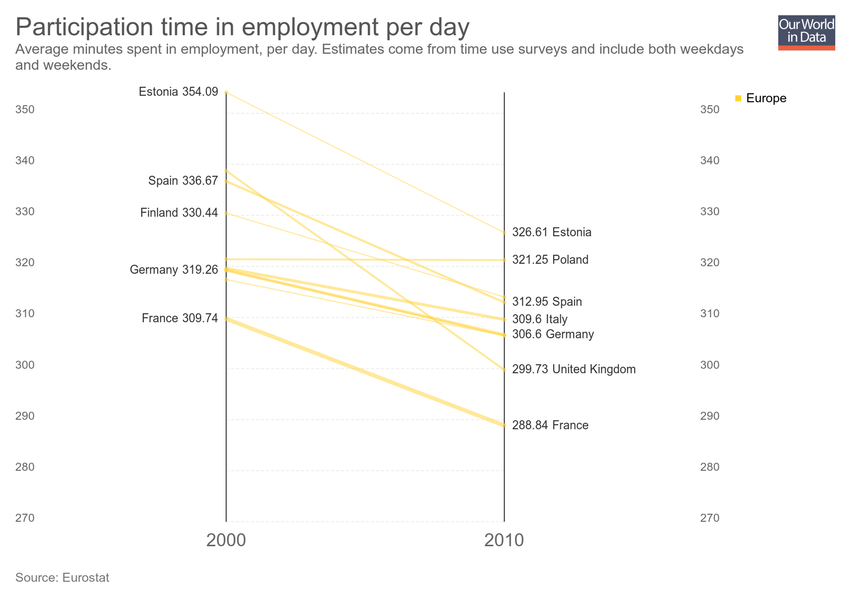
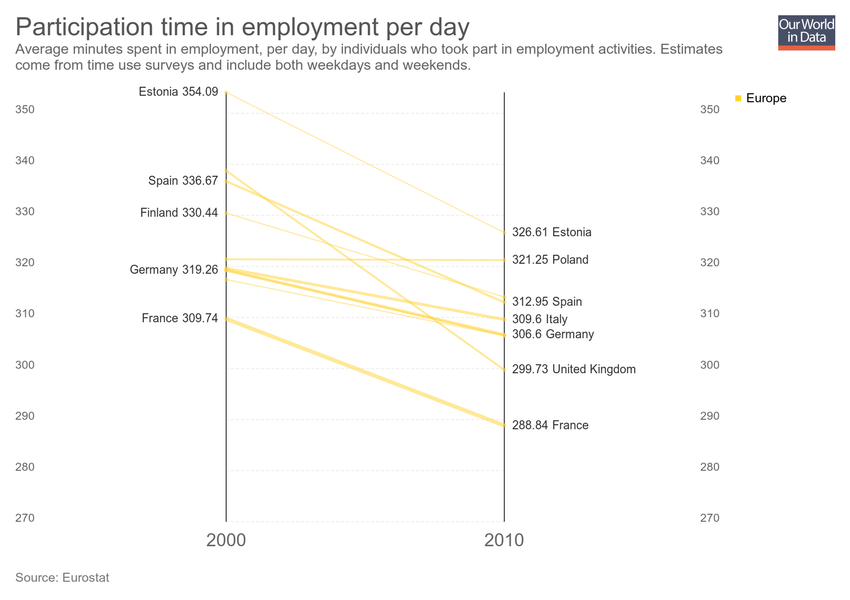
Updating chart participation-time-in-employment-per-day

Changed region(s): [[0.0, 0.06, 0.8871, 0.12]]

diff --git a/grapher/participation-time-in-employment-per-day.html b/grapher/participation-time-in-employment-per-day.html
@@ -1,4 +1,4 @@
-<!doctype html><html><head><meta name="viewport" content="width=device-width, initial-scale=1" /><title>Participation time in employment per day - Our World in Data</title><meta name="description" content="Average minutes spent in employment, per day. Estimates come from time use surveys and include both weekdays and weekends. " /><link rel="canonical" href="https://ourworldindata.org/grapher/participation-time-in-employment-per-day" /><meta property="fb:app_id" content="1149943818390250" /><meta property="og:url" content="https://ourworldindata.org/grapher/participation-time-in-employment-per-day" /><meta property="og:title" content="Participation time in employment per day" /><meta property="og:description" content="Average minutes spent in employment, per day. Estimates come from time use surveys and include both weekdays and weekends. " /><meta property="og:image" content="https://ourworldindata.org/grapher/exports/participation-time-in-employment-per-day.png?v=2" /><meta property="og:image:width" content="850" /><meta property="og:image:height" content="600" /><meta property="og:site_name" content="Our World in Data" /><meta name="twitter:card" content="summary_large_image" /><meta name="twitter:site" content="@OurWorldInData" /><meta name="twitter:creator" content="@OurWorldInData" /><meta name="twitter:title" content="Participation time in employment per day" /><meta name="twitter:description" content="Average minutes spent in employment, per day. Estimates come from time use surveys and include both weekdays and weekends. " /><meta name="twitter:image" content="https://ourworldindata.org/grapher/exports/participation-time-in-employment-per-day.png?v=2" /><style>
+<!doctype html><html><head><meta name="viewport" content="width=device-width, initial-scale=1" /><title>Participation time in employment per day - Our World in Data</title><meta name="description" content="Average minutes spent in employment, per day, by individuals who took part in employment activities. Estimates come from time use surveys and include both weekdays and weekends. " /><link rel="canonical" href="https://ourworldindata.org/grapher/participation-time-in-employment-per-day" /><meta property="fb:app_id" content="1149943818390250" /><meta property="og:url" content="https://ourworldindata.org/grapher/participation-time-in-employment-per-day" /><meta property="og:title" content="Participation time in employment per day" /><meta property="og:description" content="Average minutes spent in employment, per day, by individuals who took part in employment activities. Estimates come from time use surveys and include both weekdays and weekends. " /><meta property="og:image" content="https://ourworldindata.org/grapher/exports/participation-time-in-employment-per-day.png?v=3" /><meta property="og:image:width" content="850" /><meta property="og:image:height" content="600" /><meta property="og:site_name" content="Our World in Data" /><meta name="twitter:card" content="summary_large_image" /><meta name="twitter:site" content="@OurWorldInData" /><meta name="twitter:creator" content="@OurWorldInData" /><meta name="twitter:title" content="Participation time in employment per day" /><meta name="twitter:description" content="Average minutes spent in employment, per day, by individuals who took part in employment activities. Estimates come from time use surveys and include both weekdays and weekends. " /><meta name="twitter:image" content="https://ourworldindata.org/grapher/exports/participation-time-in-employment-per-day.png?v=3" /><style>
         html, body {
             height: 100%;
             margin: 0;
@@ -20,8 +20,8 @@
         }
     </style><noscript><style>
                     figure { display: none !important; }
-                </style></noscript><link rel="stylesheet" href="https://ourworldindata.org/grapher/assets/commons.bundle.b9f051796dbbbb7e5139.css" /><link rel="preload" href="/grapher/data/variables/97631+123+72.json?v=2" as="fetch" crossorigin /></head><body class="singleChart"><figure data-grapher-src="/grapher/participation-time-in-employment-per-day"></figure><noscript id="fallback"><img src="/grapher/exports/participation-time-in-employment-per-day.svg" /><p>Interactive visualization requires JavaScript</p></noscript><script src="https://cdn.polyfill.io/v2/polyfill.min.js?features=es6,fetch"></script><script src="https://ourworldindata.org/grapher/assets/commons.bundle.b9f051796dbbbb7e5139.js"></script><script src="https://ourworldindata.org/grapher/assets/charts.bundle.b9f051796dbbbb7e5139.js"></script><script>
-        var jsonConfig = {"id":2975,"map":{"projection":"World","colorSchemeLabels":[],"colorSchemeValues":[],"customNumericColors":[],"customCategoryColors":{},"customCategoryLabels":{},"customHiddenCategories":{}},"tab":"chart","slug":"participation-time-in-employment-per-day","type":"SlopeChart","title":"Participation time in employment per day","xAxis":{"scaleType":"linear"},"yAxis":{"min":270,"scaleType":"linear"},"version":2,"subtitle":"Average minutes spent in employment, per day. Estimates come from time use surveys and include both weekdays and weekends. ","hasMapTab":false,"stackMode":"absolute","dimensions":[{"display":{},"property":"y","variableId":97631},{"display":{},"property":"color","variableId":123},{"display":{},"property":"size","variableId":72}],"hasChartTab":true,"isPublished":true,"selectedData":[],"addCountryMode":"add-country"};
+                </style></noscript><link rel="stylesheet" href="https://ourworldindata.org/grapher/assets/commons.bundle.b9f051796dbbbb7e5139.css" /><link rel="preload" href="/grapher/data/variables/97631+123+72.json?v=3" as="fetch" crossorigin /></head><body class="singleChart"><figure data-grapher-src="/grapher/participation-time-in-employment-per-day"></figure><noscript id="fallback"><img src="/grapher/exports/participation-time-in-employment-per-day.svg" /><p>Interactive visualization requires JavaScript</p></noscript><script src="https://cdn.polyfill.io/v2/polyfill.min.js?features=es6,fetch"></script><script src="https://ourworldindata.org/grapher/assets/commons.bundle.b9f051796dbbbb7e5139.js"></script><script src="https://ourworldindata.org/grapher/assets/charts.bundle.b9f051796dbbbb7e5139.js"></script><script>
+        var jsonConfig = {"id":2975,"map":{"projection":"World","colorSchemeLabels":[],"colorSchemeValues":[],"customNumericColors":[],"customCategoryColors":{},"customCategoryLabels":{},"customHiddenCategories":{}},"tab":"chart","slug":"participation-time-in-employment-per-day","type":"SlopeChart","title":"Participation time in employment per day","xAxis":{"scaleType":"linear"},"yAxis":{"min":270,"scaleType":"linear"},"version":3,"subtitle":"Average minutes spent in employment, per day, by individuals who took part in employment activities. Estimates come from time use surveys and include both weekdays and weekends. ","hasMapTab":false,"stackMode":"absolute","dimensions":[{"display":{},"property":"y","variableId":97631},{"display":{},"property":"color","variableId":123},{"display":{},"property":"size","variableId":72}],"hasChartTab":true,"isPublished":true,"selectedData":[],"addCountryMode":"add-country"};
         var figure = document.getElementsByTagName("figure")[0];
         try {
             window.App = {};
